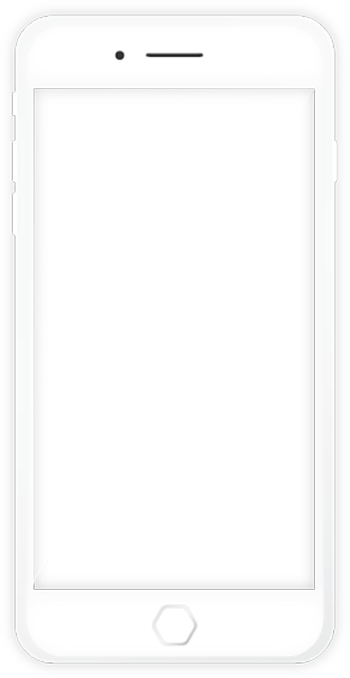
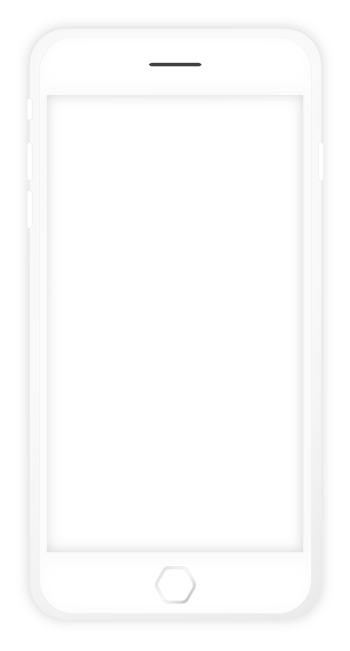
Improved quality of iPhone device frame.

diff --git a/stylesheets/components/_device-frame.scss b/stylesheets/components/_device-frame.scss
@@ -66,7 +66,7 @@
   &.device-frame-iphone {
 
     &:not(.device-frame-landscape) { // default portrait
-      $image-height: 678;
+      $image-height: 651;
       $image-width: 350;
 
       max-width: $image-width * 1px;
@@ -79,10 +79,10 @@
         iframe {
           border-color: $bezel-color-iphone;
 
-          top: 12%;
-          left: 9%;
-          height: 76%;
-          width: 82%;
+          top: 14%;
+          left: 12%;
+          height: 72%;
+          width: 76%;
         }
 
       }
@@ -90,7 +90,7 @@
 
     &.device-frame-landscape {
       $image-height: 350;
-      $image-width: 678;
+      $image-width: 651;
 
       max-width: $image-width * 1px;
 
@@ -102,10 +102,10 @@
         iframe {
           border-color: $bezel-color-iphone;
 
-          top: 9%;
-          left: 12%;
-          height: 82%;
-          width: 76%;
+          top: 12%;
+          left: 13%;
+          height: 76%;
+          width: 73%;
         }
       }
     }
